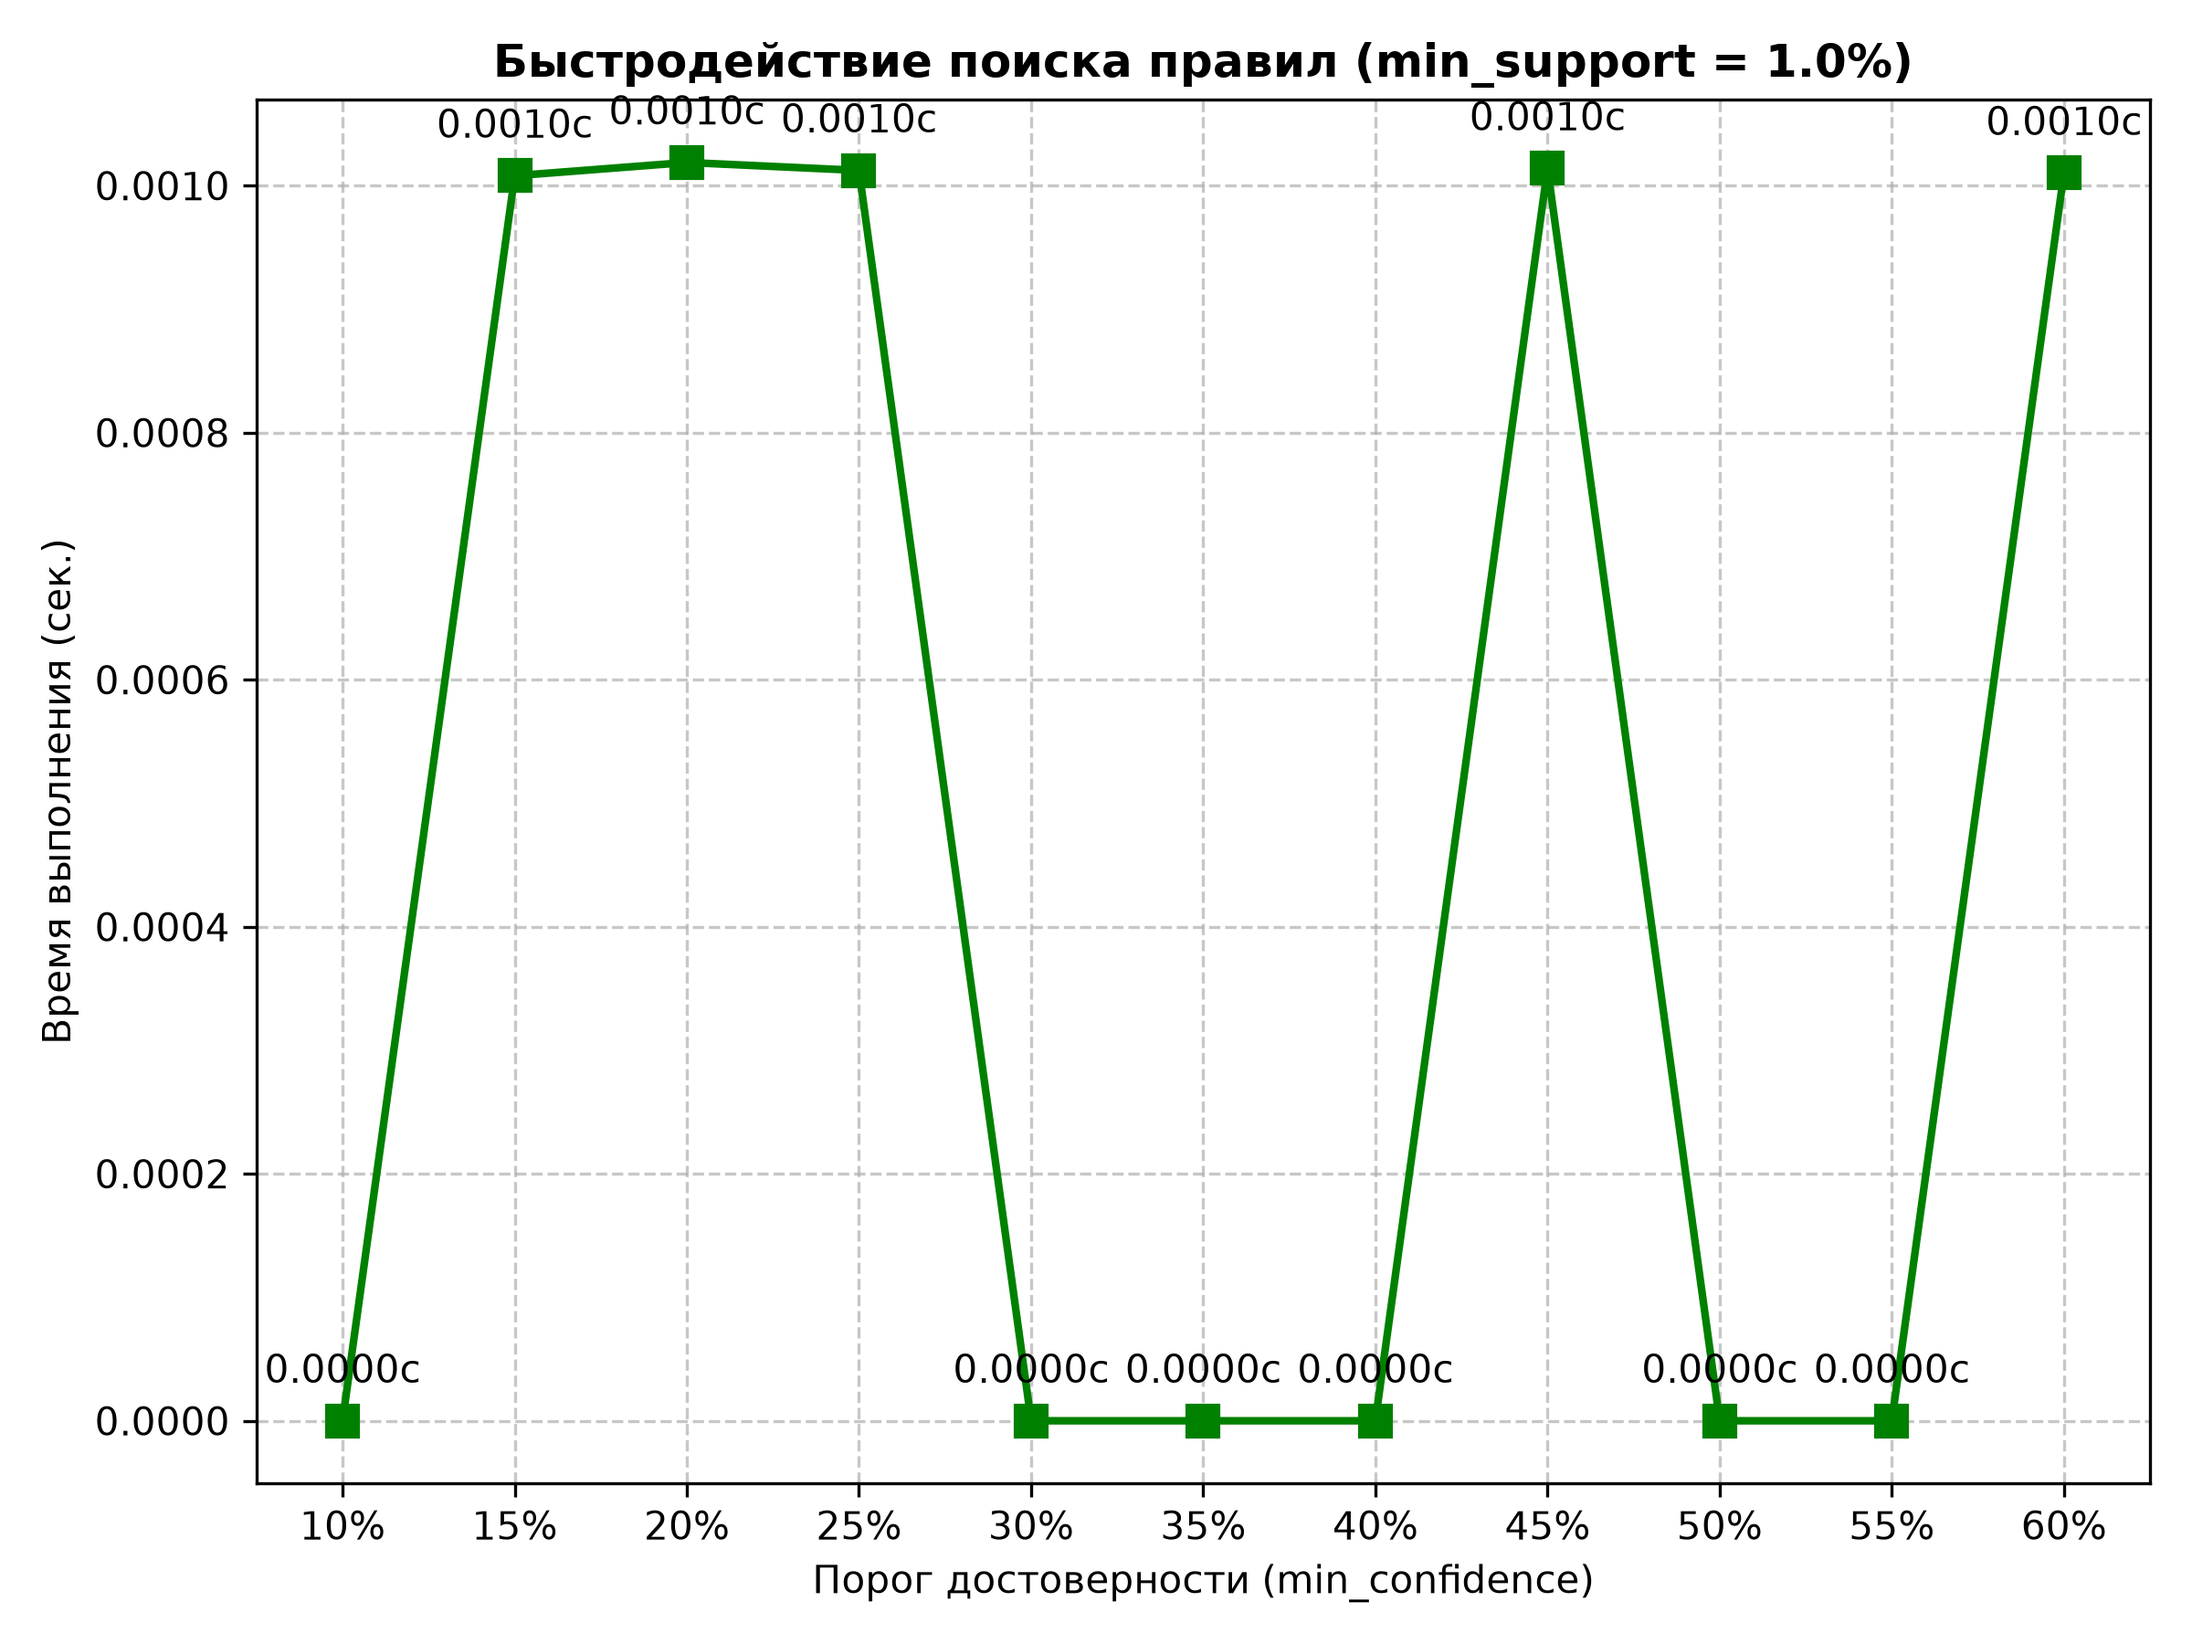
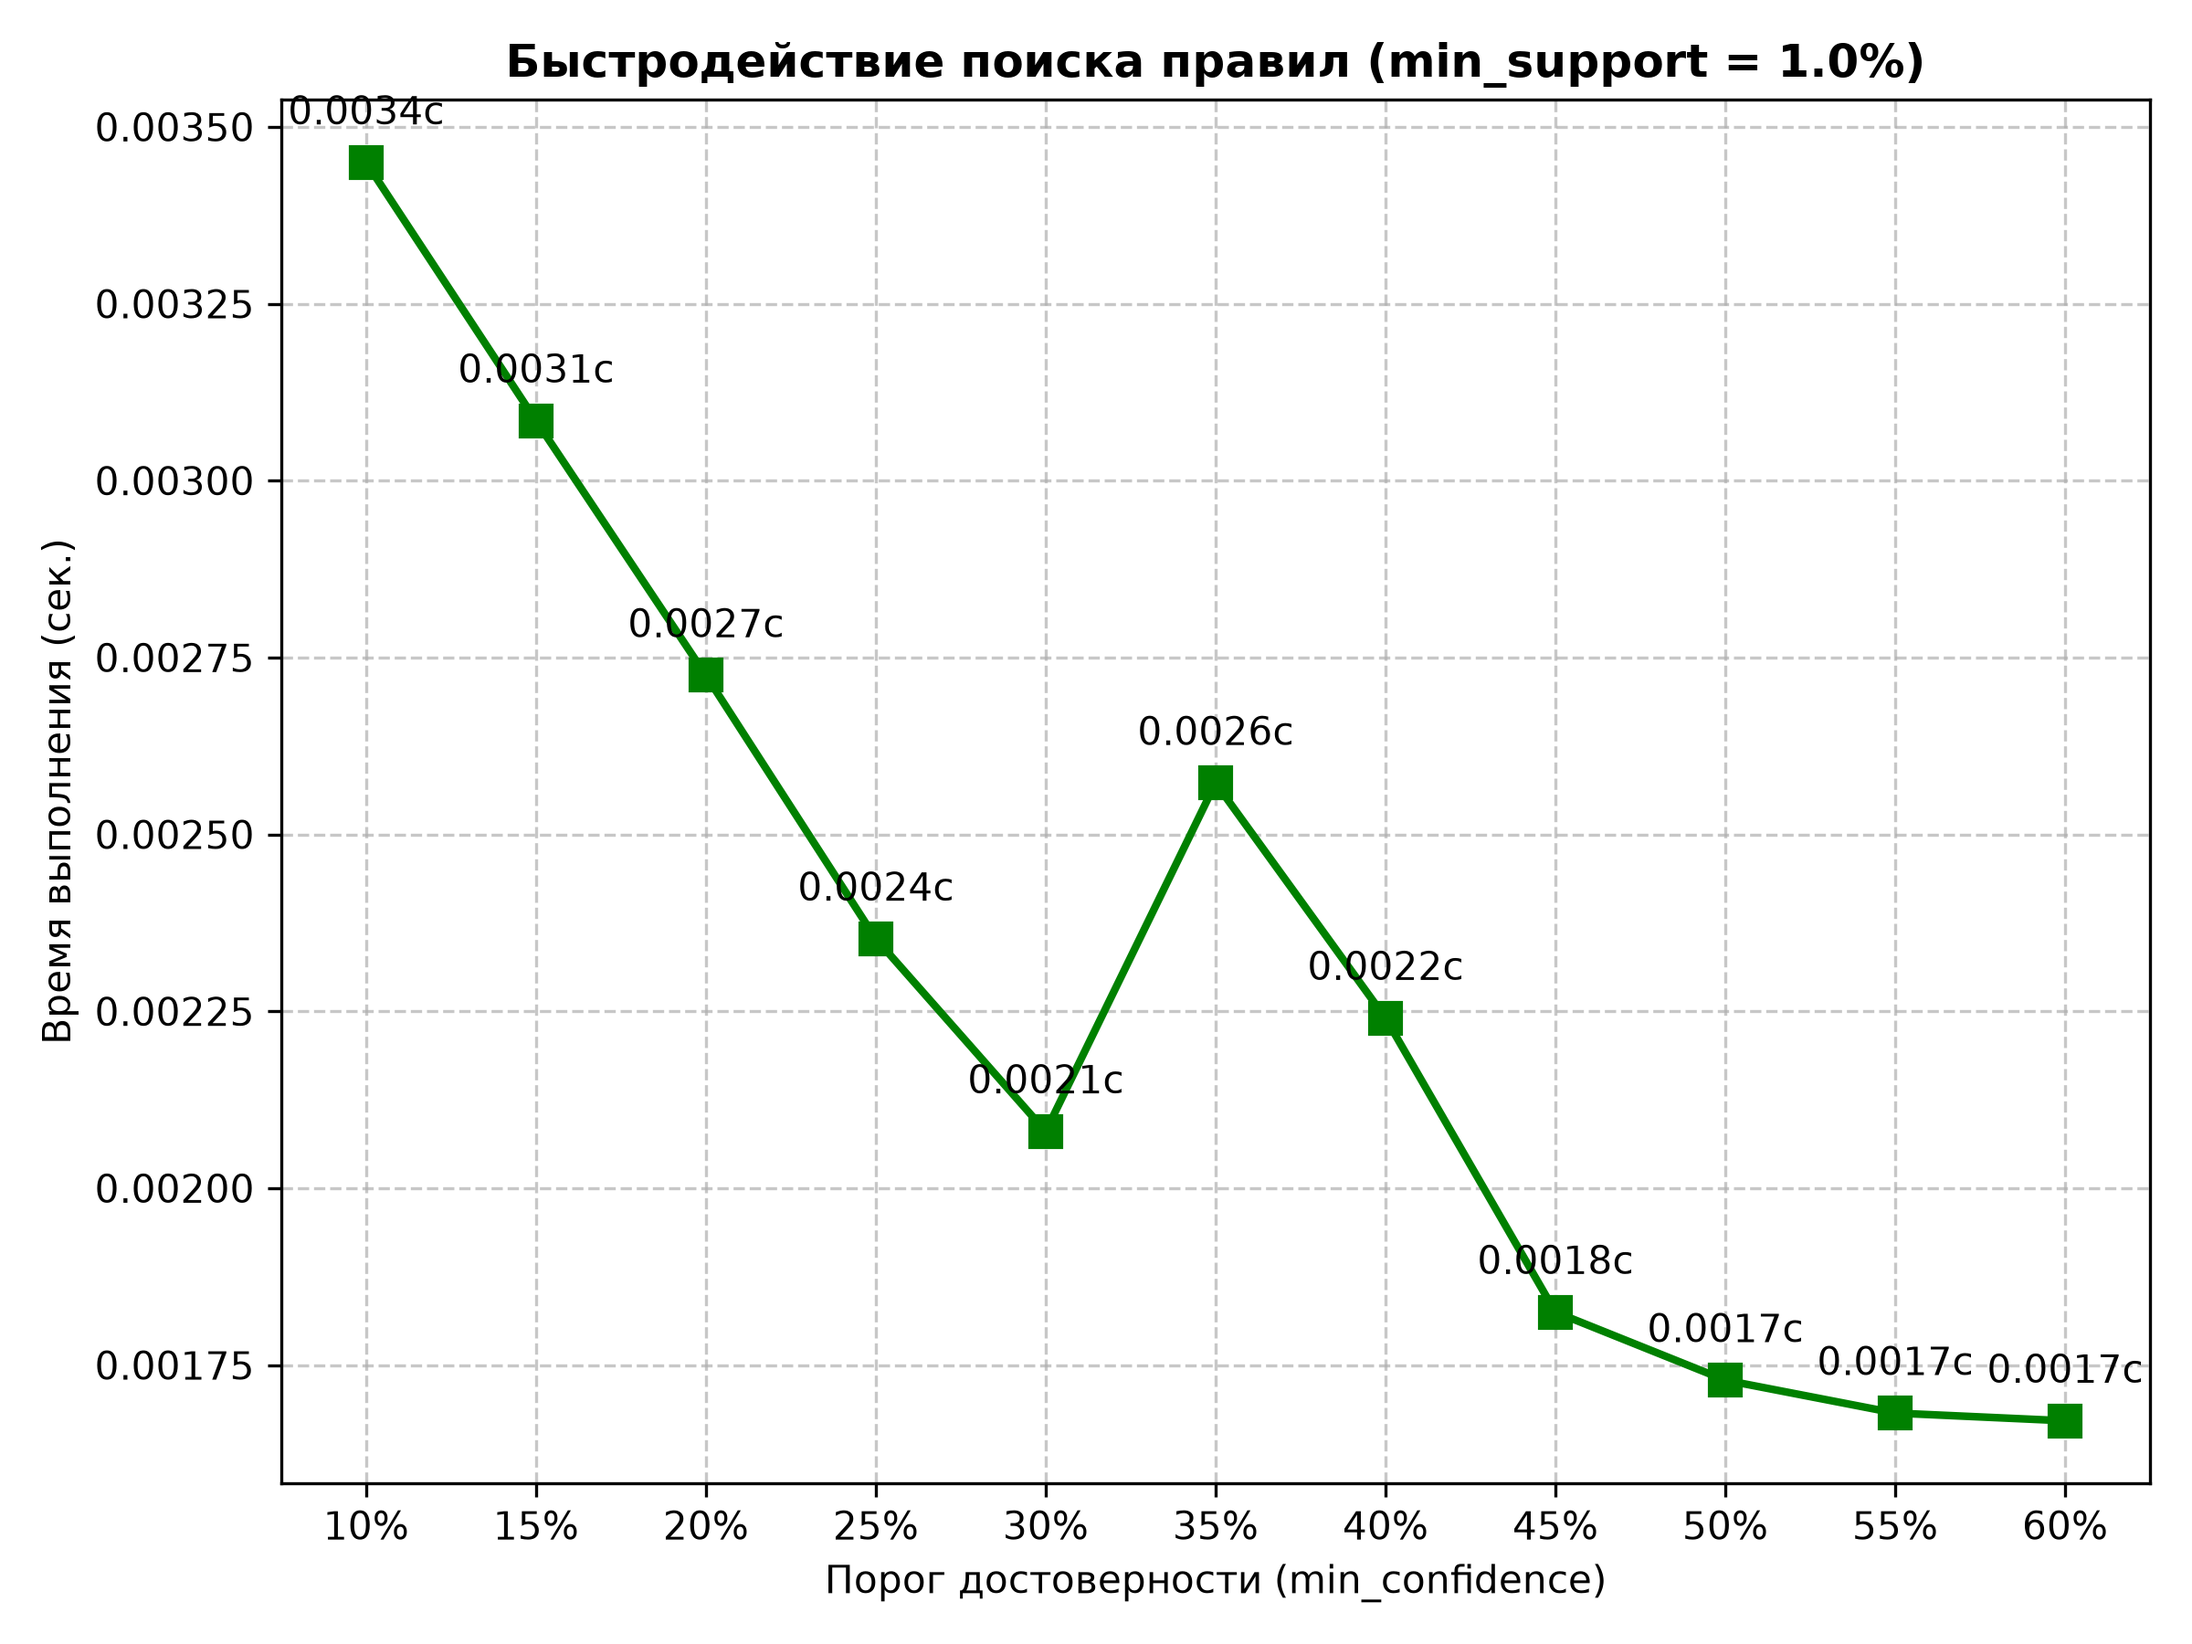
Исправлено построение графика быстродействия поиска правил

diff --git a/Practice 2/lab2.py b/Practice 2/lab2.py
@@ -14,7 +14,6 @@ import pandas as pd
 
 file_path = "baskets.csv"
 
-
 def load_from_csv(file_path):
     """
     Загружает транзакции из CSV-файла.
@@ -38,8 +37,7 @@ def load_from_csv(file_path):
 
 # 2. Реализация алгоритма Apriori
 
-
-def apriori(transactions, min_support=0.05, sort_by='support_desc'):
+def apriori(transactions, min_support=0.05,  sort_by='support_desc'):
     """
     Реализует алгоритм Apriori для поиска частых наборов товаров в транзакциях.
 
@@ -141,11 +139,10 @@ def apriori(transactions, min_support=0.05, sort_by='support_desc'):
 
 # 3. Поиск ассоциативных правил
 
-
 def generate_association_rules(
     frequent_itemsets,
     support_dict,
-    min_confidence=0.70,
+    min_confidence=0.50,
     sort_by='support_desc',
 ):
     """
@@ -157,8 +154,8 @@ def generate_association_rules(
         min_confidence (float): Минимальный порог достоверности (от 0.0 до 1.0).
         sort_by (str): Критерий сортировки правил ('support_desc' или 'lexicographic').
 
-    Возвращаемое значение:
-        rules (list of dict): Список словарей с характеристиками правил (antecedent, consequent, support, confidence, total_size).
+    Возвращаемое значение: rules (list of dict): Список словарей с характеристиками правил (antecedent, consequent,
+    support, confidence, total_size).
     """
     rules = []
 
@@ -209,7 +206,6 @@ def generate_association_rules(
 
 # 4. Эксперименты с правилами при фиксированной поддержке
 
-
 def run_rule_experiments(
     file_path,
     fixed_support=0.01,
@@ -230,7 +226,7 @@ def run_rule_experiments(
         experiment_results (list of dict): Список словарей, содержащих результаты и метрики эксперимента.
     """
     if conf_thresholds is None:
-        conf_thresholds = [0.30, 0.35, 0.40, 0.45, 0.50, 0.55, 0.60, 0.65, 0.70]
+        conf_thresholds = [0.10, 0.15, 0.20, 0.25, 0.30, 0.35, 0.40, 0.45, 0.50, 0.55, 0.60]
 
     print(f"Загрузка данных из файла {file_path}...")
     transactions = load_from_csv(file_path)
@@ -256,7 +252,7 @@ def run_rule_experiments(
             print(
                 f"Запуск генерации правил для min_confidence = {conf * 100:.0f}%..."
             )
-            start_time = time.time()
+            start_time = time.perf_counter()
 
             rules = generate_association_rules(
                 frequent_itemsets,
@@ -265,7 +261,7 @@ def run_rule_experiments(
                 sort_by=sort_by,
             )
 
-            elapsed_time = time.time() - start_time
+            elapsed_time = time.perf_counter() - start_time
 
             experiment_results.append({
                 'confidence_thresh': conf,
@@ -300,7 +296,6 @@ def run_rule_experiments(
 
 
 # 5. Визуализация результатов правил
-
 
 def visualize_rule_results(experiment_results, fixed_support):
     """
@@ -370,8 +365,7 @@ def visualize_rule_results(experiment_results, fixed_support):
     print("График количества правил сохранен в файл 'rules_count.png'.")
 
 
-# 6. Фильтрация разумных правил
-
+# 6. Фильтрация правил по достоверности
 
 def print_filtered_rules(experiment_results, target_conf=0.5, max_size=7):
     """
@@ -386,7 +380,7 @@ def print_filtered_rules(experiment_results, target_conf=0.5, max_size=7):
         None (функция выводит список правил в консоль).
     """
     print(
-        f"\n=== Список разумных правил (Достоверность >= {target_conf * 100:.0f}%, Объектов <= {max_size}) ==="
+        f"\nСписок наиболее достоверных правил (Достоверность >= {target_conf * 100:.0f}%, Объектов <= {max_size}):"
     )
 
     target_exp = next(
